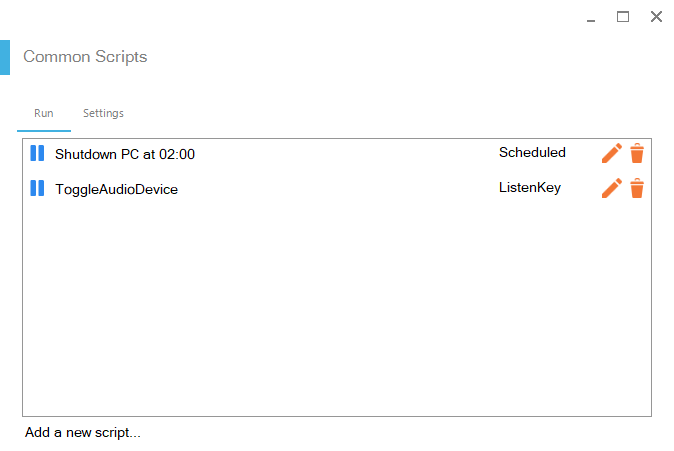
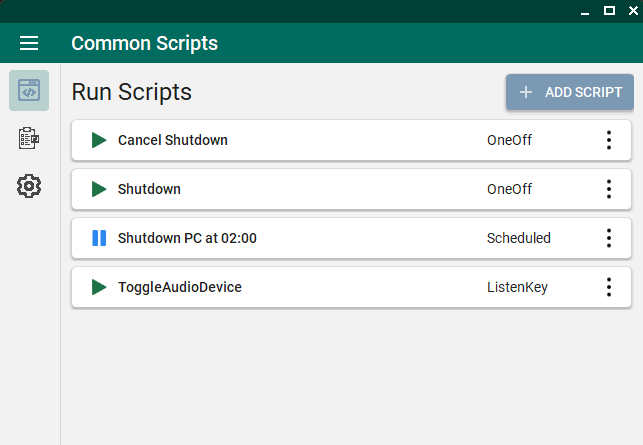
Update readme

Changed region(s): [[0.0, 0.0, 1.0, 0.7011], [0.0311, 0.9056, 0.9642, 0.9933], [0.7465, 0.409, 0.8398, 0.4382]]

diff --git a/README.md b/README.md
@@ -7,7 +7,7 @@ It also have dark mode!
 
 ![Image of the Main window](./img/MainForm.png)
 
-![Image of the Add window](./img/AddOneOffScript.png)
+![Image of the Add window](./img/EditScript.png)
 
 ## How to use it
 
@@ -18,8 +18,9 @@ It also have dark mode!
 
 ## Third-party libraries
 
-- [MetroSet-UI](https://github.com/N-a-r-w-i-n/MetroSet-UI) by [NARWIN](https://github.com/N-a-r-w-i-n/) as a skin for Winforms (sorry for using winforms 😞).
+- [MaterialSkin 2](https://github.com/leocb/MaterialSkin) by [leocb](https://github.com/leocb/) as a skin for Winforms (sorry for using winforms 😞).
 - [globalmousekeyhook](https://github.com/gmamaladze/globalmousekeyhook) by [George Mamaladze](https://github.com/gmamaladze) for the key listener.
 - [Quartz.NET](https://github.com/quartznet/quartznet) to manage script execution.
 - [Serilog](https://github.com/serilog/serilog) for the logging.
 - [AudioDeviceCmdlets](https://github.com/frgnca/AudioDeviceCmdlets) by [frgnca](https://github.com/frgnca) for the Toggle Audio Device script.
+- <s>[MetroSet-UI](https://github.com/N-a-r-w-i-n/MetroSet-UI) by [NARWIN](https://github.com/N-a-r-w-i-n/) as a skin for Winforms (sorry for using winforms 😞).</s> This library was used in 1.* versions
